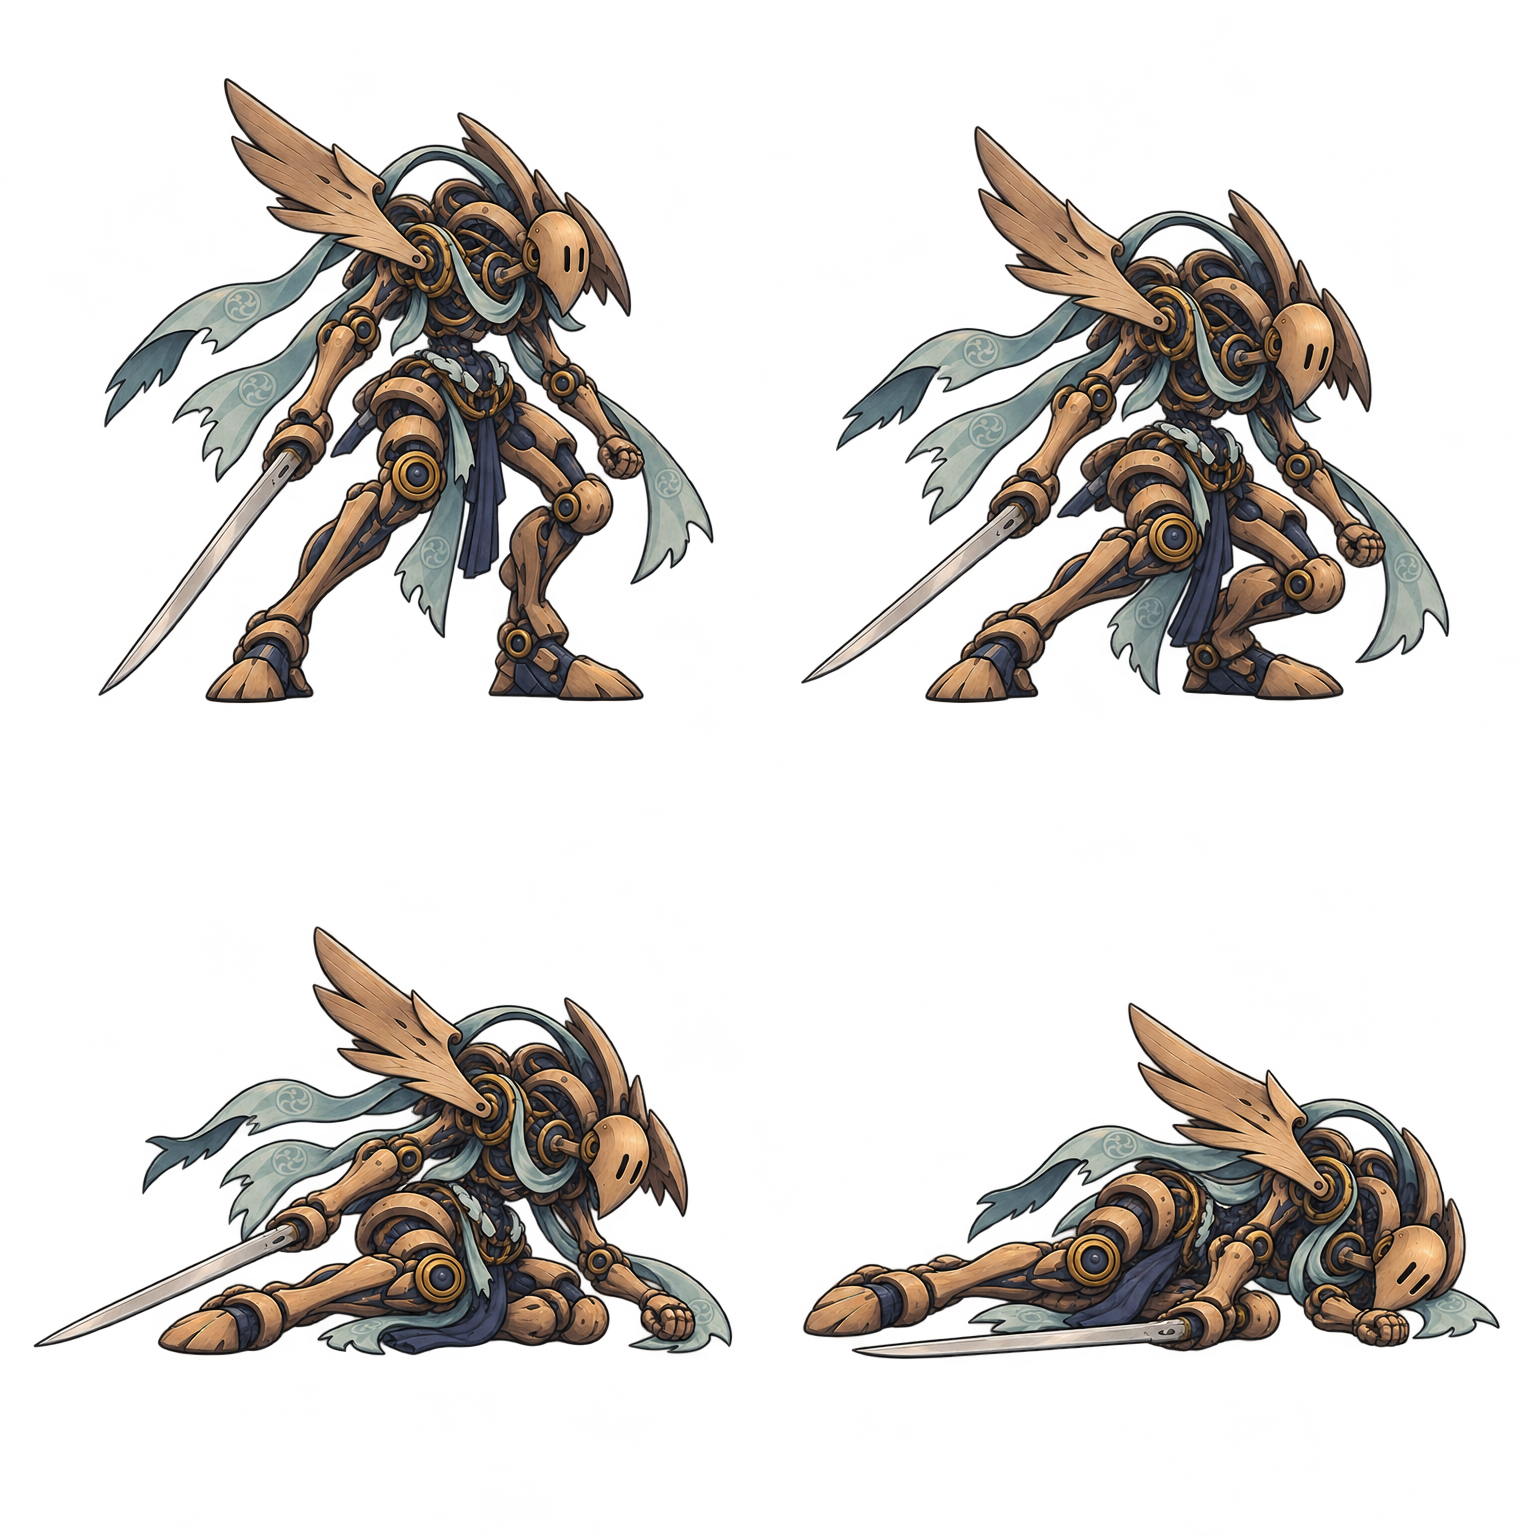
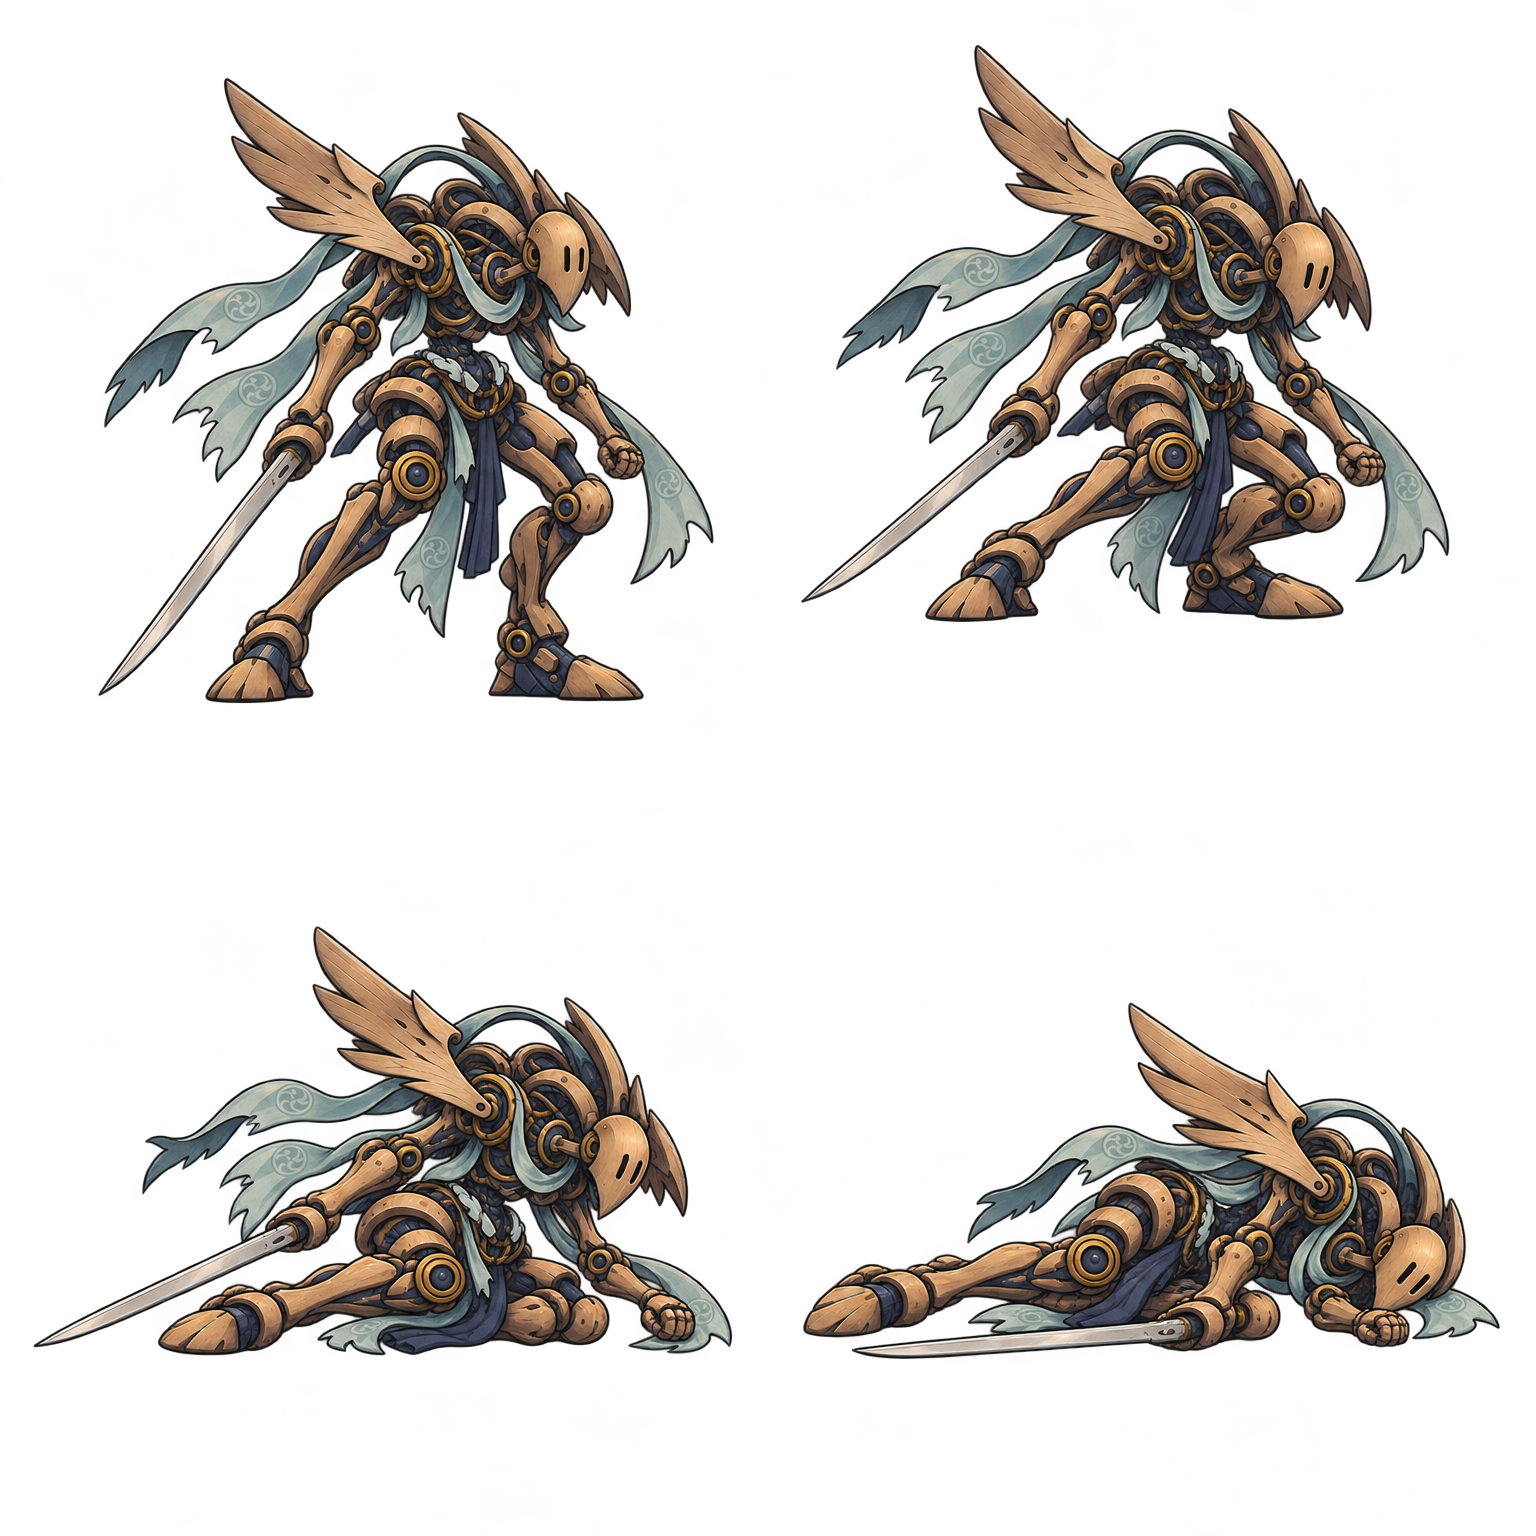
fix(rising-slash): ground death pose and lift blades into wave release

Changed region(s): [[0.5312, 0.0312, 0.9688, 0.4688]]

diff --git a/Assets/Runtime/RisingSlash/Visuals/KarmaCharacterAnimator.Rising.cs b/Assets/Runtime/RisingSlash/Visuals/KarmaCharacterAnimator.Rising.cs
@@ -14,6 +14,7 @@ namespace KarmaPrototype
         Sprite[] risingBasicStrike, risingDescent, risingPursuit, risingWave, risingCrossing;
         Sprite[] risingMotion;
         double risingMotionAt;
+        double risingWaveWindupAt = double.PositiveInfinity;
         double risingDescentAt = -1, risingLandingAt = -1;
         double risingStrikeAt = -1;
 
@@ -23,9 +24,14 @@ namespace KarmaPrototype
             if (risingLandingAt >= 0) return attack == EnemyAttack.UP01 ? "UP01Landing" : "Landing";
             if (attack == EnemyAttack.GroundStrike && risingStrikeAt >= 0) return "UPBasic";
             if (action == "Attack" && attack == EnemyAttack.GroundStrike && CurrentPose == "Dash") return "Dash";
+            if (attack == EnemyAttack.UP03 && action == "Attack" && risingMotion == null)
+                return moved ? "Dash" : "Idle";
             if (risingMotion != null || action == "Attack") return attack == EnemyAttack.GroundStrike ? "UPBasic"
                 : attack == EnemyAttack.UP05 && RisingBarrierVisible ? "UP05_NoFX" : attack.ToString();
-            if (action == "Recover") return "Landing";
+            // UP03 releases its wave with both feet planted.
+            if (action == "Recover") return attack == EnemyAttack.UP03 ? "Idle" : "Landing";
+            if (action == "Telegraph" && attack == EnemyAttack.UP03 && Time.timeAsDouble >= risingWaveWindupAt)
+                return "UP03";
             if (action == "Telegraph") return attack == EnemyAttack.UP05 ? "UP05" : "Windup";
             return moved || CurrentPose == "Dash" ? "Dash" : "Idle";
         }
@@ -83,9 +89,19 @@ namespace KarmaPrototype
         }
 
         internal void StartRisingPursuit() => StartRisingMotion(risingPursuit);
+        internal void PrepareRisingWave(float warning)
+        {
+            // Reach the high cut on release. RiseWave has an extra drawing on the way up.
+            int leadFrames = motionForm == "RiseWave" ? 2 : 1;
+            risingWaveWindupAt = Time.timeAsDouble + Mathf.Max(0, warning - leadFrames * KarmaBootstrap.Step);
+        }
         internal void StartRisingWave() => StartRisingMotion(risingWave);
         internal void StartRisingCrossing() => StartRisingMotion(risingCrossing);
-        internal void EndRisingMotion() => risingMotion = null;
+        internal void EndRisingMotion()
+        {
+            risingMotion = null;
+            risingWaveWindupAt = double.PositiveInfinity;
+        }
 
         bool PresentRisingCrossing(string action, EnemyAttack attack)
         {

diff --git a/tests/Unity/RisingSlash/KarmaRisingPlayChecks.cs b/tests/Unity/RisingSlash/KarmaRisingPlayChecks.cs
@@ -104,6 +104,8 @@ public static class KarmaRisingPlayChecks
                 pose("Attack", EnemyAttack.UP02, false, "Slash");
                 pose("Attack", EnemyAttack.UP01, true, "AirSlash");
                 pose("Recover", EnemyAttack.UP01, false, "Landing");
+                if (Array.IndexOf(order, Essence.SwordWave) >= 0)
+                    pose("Recover", EnemyAttack.UP03, false, "Idle");
                 pose("Stunned", EnemyAttack.UP01, false, "Hurt");
                 animator.transform.position += Vector3.right * 0.2f;
                 pose("Approach", EnemyAttack.UP01, false, "Dash");
@@ -196,6 +198,8 @@ public static class KarmaRisingPlayChecks
             }
         }
         Check(observed.Contains(0) && observed.Contains(1), form + "/" + motion + " actual starting frames: " + string.Join(",",observed));
+        if (form == "RiseWave" && motion == "UP03")
+            Check(observed.SequenceEqual(new[] { 0, 1, 2, 3 }), "RiseWave UP03 plays the sword transition in order");
         for (int i = 1; i < observed.Count; i++)
             Check(observed[i] == 0 || observed[i] > observed[i-1], form + "/" + motion + " forward playback");
         if (landing != null)

diff --git a/Assets/Runtime/RisingSlash/Patterns/UP03.cs b/Assets/Runtime/RisingSlash/Patterns/UP03.cs
@@ -21,6 +21,7 @@ namespace KarmaPrototype
                 var mark = owner.Mark("전방 대검기 · 등 뒤로", center, size);
                 owner.state = ActionState.Telegraph;
                 float warning = owner.Warning(0.72f);
+                owner.animator.PrepareRisingWave(warning);
                 KarmaRisingAudio.Warn(warning);
 
                 var preview = KarmaRisingArt.Get("WaveEcho");
